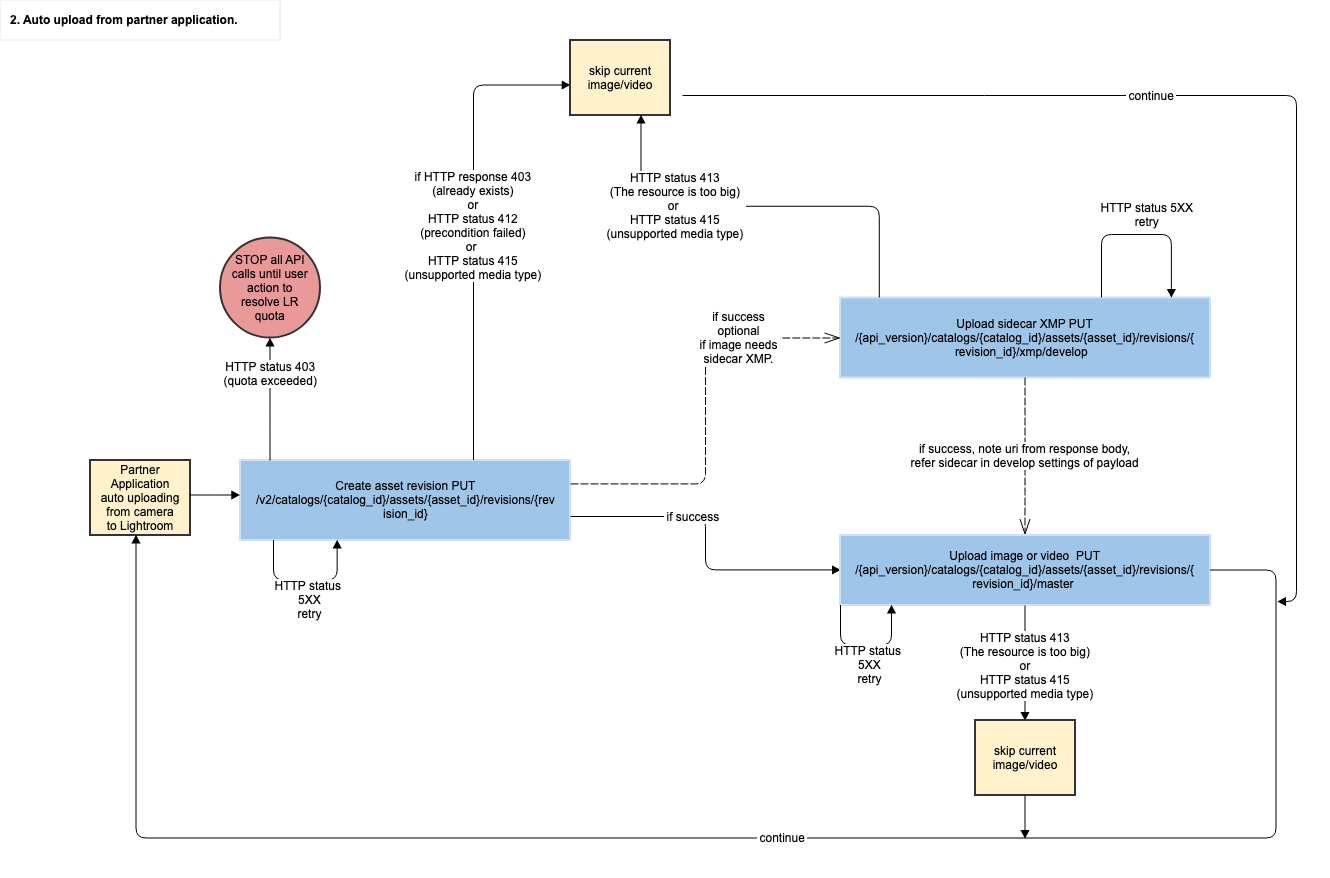
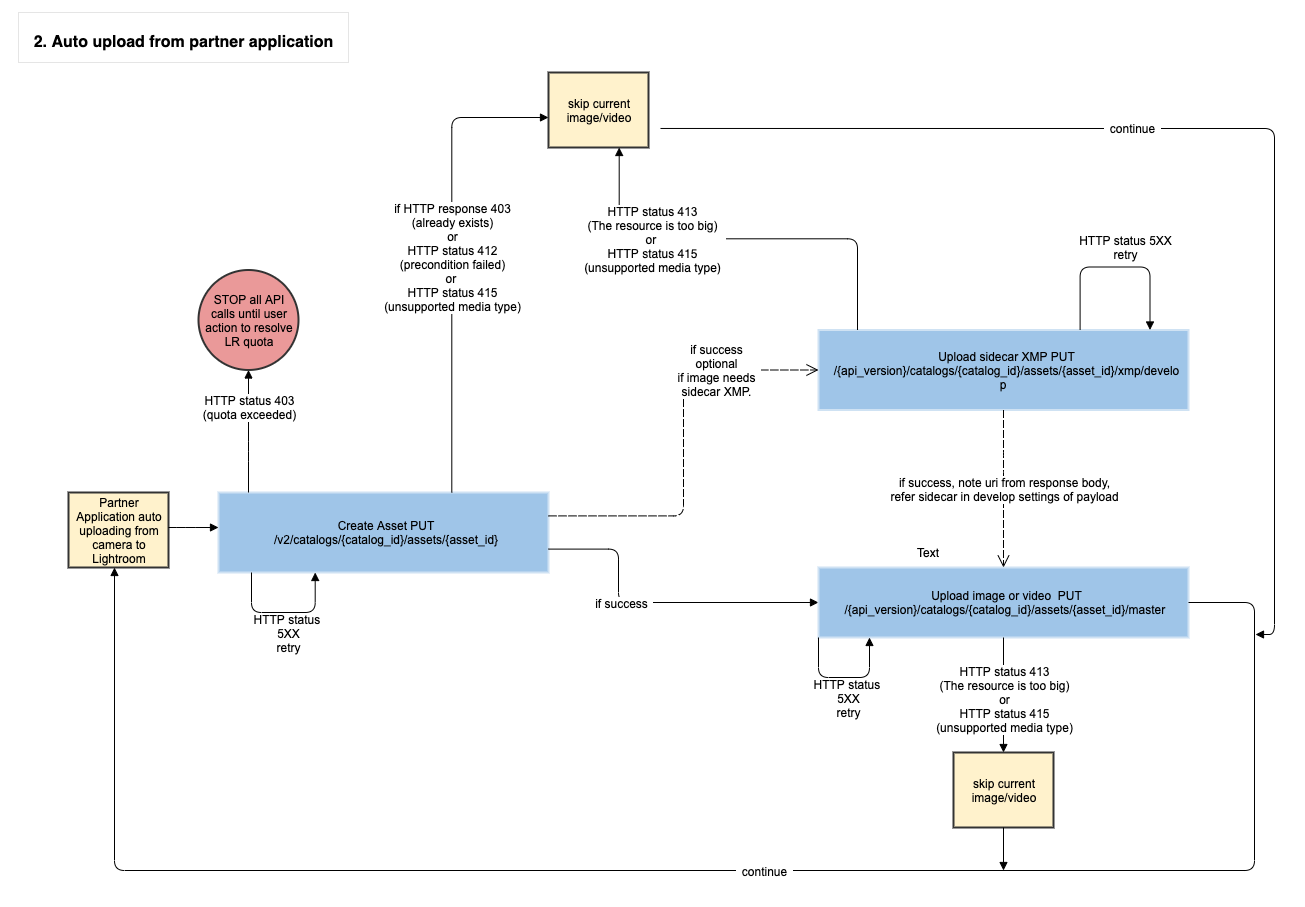
Removing revision id references from the doc

diff --git a/quickstart/upload.md b/quickstart/upload.md
@@ -181,10 +181,10 @@ Content-Length: {xsd:nonNegativeInteger}
 
 At this point, a client application should have a catalog identifier (`catalog_id`), which is required for the remainder of the workflow. 
 
-_STEP 1_: Create an asset revision providing newly generated globally unique identifiers (GUIDs) for `asset_id` and `revision_id`. Refer to RFC-4122 for a description of GUIDs. The Lightroom services accept only GUIDs without hyphens. Most languages provide libraries to generate GUID (For examples refer https://docs.oracle.com/javase/7/docs/api/java/util/UUID.html and https://docs.python.org/3/library/uuid.html)
+_STEP 1_: Create an asset by providing newly generated globally unique identifiers (GUID) for `asset_id`. Refer to RFC-4122 for a description of GUIDs. The Lightroom services accept only GUIDs without hyphens. Most languages provide libraries to generate GUID (For examples refer https://docs.oracle.com/javase/7/docs/api/java/util/UUID.html and https://docs.python.org/3/library/uuid.html)
 
 ```
-PUT /v2/catalogs/{catalog_id}/assets/{asset_id}/revisions/{revision_id} HTTP/1.1 
+PUT /v2/catalogs/{catalog_id}/assets/{asset_id} HTTP/1.1 
 Authorization: {auth_token}
 Content-Type: application/json
 Content-Length: {xsd:nonNegativeInteger}
@@ -214,7 +214,7 @@ Location: {xsd:anyURI}
 _STEP 2_: Upload the image or video file binary data. This API allows a maximum of 200MB to be uploaded per invocation. Larger files must be uploaded in chunks with this API by including `Content-Range` headers for each part. Clients may make multiple requests with `Content-Range` headers in parallel. For better fault tolerance, it may be preferable for clients to upload chunks smaller than 200MB.
 
 ```
-PUT /v2/catalogs/{catalog_id}/assets/{asset_id}/revisions/{revision_id}/master HTTP/1.1
+PUT /v2/catalogs/{catalog_id}/assets/{asset_id}/master HTTP/1.1
 Authorization: {auth_token}
 Content-Length: {xsd:nonNegativeInteger}
 Content-Range: {xsd:string}
@@ -298,7 +298,7 @@ The Lightroom APIs may return these errors that are specific to the upload APIs:
   ```
   Partner applications should check that the content type matches the upload data type and try again.
 
-- _JSON Validation failed_: Attempting to create a new asset revision results in an `HTTP 400` error of the form:
+- _JSON Validation failed_: Attempting to create a new asset results in an `HTTP 400` error of the form:
   ```
   {
       "error_code": "1005",
@@ -307,9 +307,9 @@ The Lightroom APIs may return these errors that are specific to the upload APIs:
   ```
   This means the JSON content provided in the body is not legal JSON, has fields that are not supported, or has illegal properties for supported fields. Partner applications should fix the JSON content and retry.
 
-- _Duplicate detected_: Attempting to create a new asset revision results in an `HTTP 412` precondition failed error. This indicates that the provided SHA-256 matches an existing asset in the catalog. Partner applications should skip the upload of the asset.
+- _Duplicate detected_: Attempting to create a new asset results in an `HTTP 412` precondition failed error. This indicates that the provided SHA-256 matches an existing asset in the catalog. Partner applications should skip the upload of the asset.
 
-- _Catalog_id change_: In general it is recommended that the catalog_id once obtained by calling the "Retrieve the user catalog metadata" API call, is cached and used for all successive calls for the user. However sometimes due to user's activities on certain Lightroom clients, the catalog_id of the user may change. In this case when an API call is made to "create asset revision", it will return a 404 (not found) response indicating that the catalog id is not found. In this case, call the "Retrieve the user catalog metadata" API again and get the latest catalog_id for the user and cache it for use in successive API calls. Below is a sample 404 response that may indicate a change of catalog id.
+- _Catalog_id change_: In general it is recommended that the catalog_id once obtained by calling the "Retrieve the user catalog metadata" API call, is cached and used for all successive calls for the user. However sometimes due to user's activities on certain Lightroom clients, the catalog_id of the user may change. In this case when an API call is made to "create asset", it will return a 404 (not found) response indicating that the catalog id is not found. In this case, call the "Retrieve the user catalog metadata" API again and get the latest catalog_id for the user and cache it for use in successive API calls. Below is a sample 404 response that may indicate a change of catalog id.
   ```
   {
       "code":1000,

diff --git a/usage/generic.md b/usage/generic.md
@@ -15,7 +15,6 @@ The data models for all JSON content share many common elements. Long strings, u
         "userUpdated": "2012-01-03T04:54:15Z",
         // custom for each type
     },
-    "revision_ids": ["9a91927e",...],
     "links": {
         "self": {
             "href": "custom/for/each/type/a3c679e3"
@@ -38,7 +37,6 @@ Unless otherwise noted, all entries at the top level are constructed and provide
     * If the payload is completely empty, which is allowed for some types, then it will be omitted.
     * `userCreated` (ISO 8601 date): Date and time when the user created this document on the client side.
     * `userUpdated` (ISO 8601 date): Date and time when the user last updated this document's payload (or other user modifiable data). This should be set at initial creation and updated by a client each time a user makes a change to data within the payload hash. The userUpdated time should not be updated by automated processes (e.g. reverse geocode, etc.).
-* `revision_ids` (array): List of unique identifiers for each revision to this resource, in order from oldest to newest. When new objects are created, they will have an initial revision and a new revision is created for every update.
 * `links` (table): Links to related data.
     * Each entry is a table containing an `href` entry with the actual link.
     * All types include the `self` link.

diff --git a/apichangelog.md b/apichangelog.md
@@ -1,6 +1,19 @@
 ## API Change Logs
 This document provides information about new features and bug fixes with the Lightroom APIs.
 
+### Version 1.2.1 (12 May, 2021)
+- Revision IDs have been removed been removed from the response of below APIs.
+   1. Get a Catalog Asset (GET) - `/v2/catalogs/{catalog_id}/assets/{asset_id}`
+   2. Retrieve Assets (GET) - `/v2/catalogs/{catalog_id}/assets`
+   3. List assets of an album (GET)- `/v2/catalogs/{catalog_id}/albums/{album_id}/assets`
+   4. Read a album (GET) - `/v2/catalogs/{catalog_id}/albums/{album_id}`
+   5. Retrieve albums (GET) - `/v2/catalogs/{catalog_id}/albums`
+
+- Added Create Master Links and Create xmp Develop Links to below asset response of below APIs
+   1. Get a Catalog Asset (GET) - `/v2/catalogs/{catalog_id}/assets/{asset_id}`
+   2. Retrieve Assets (GET) - `/v2/catalogs/{catalog_id}/assets`
+   3. List assets of an album (GET)- `/v2/catalogs/{catalog_id}/albums/{album_id}/assets`
+
 ### Version 1.2.0 (24 Feb, 2021)
 - Added new Create Master API (PUT)- `/v2/catalogs/{catalog_id}/assets/{asset_id}/master` . It can be used to upload master for a new asset.
 
